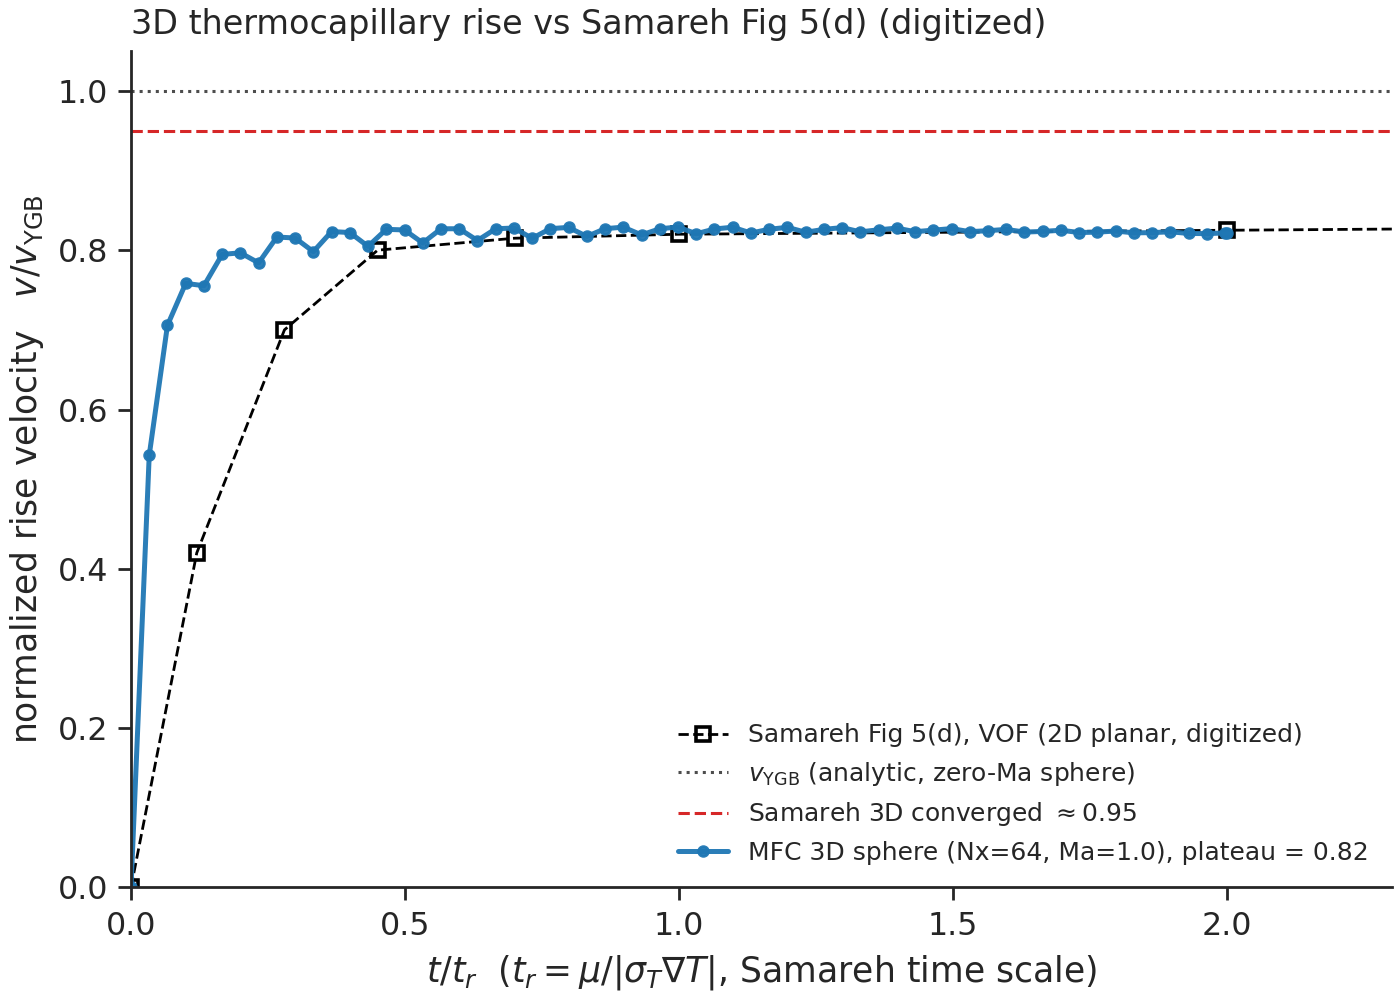
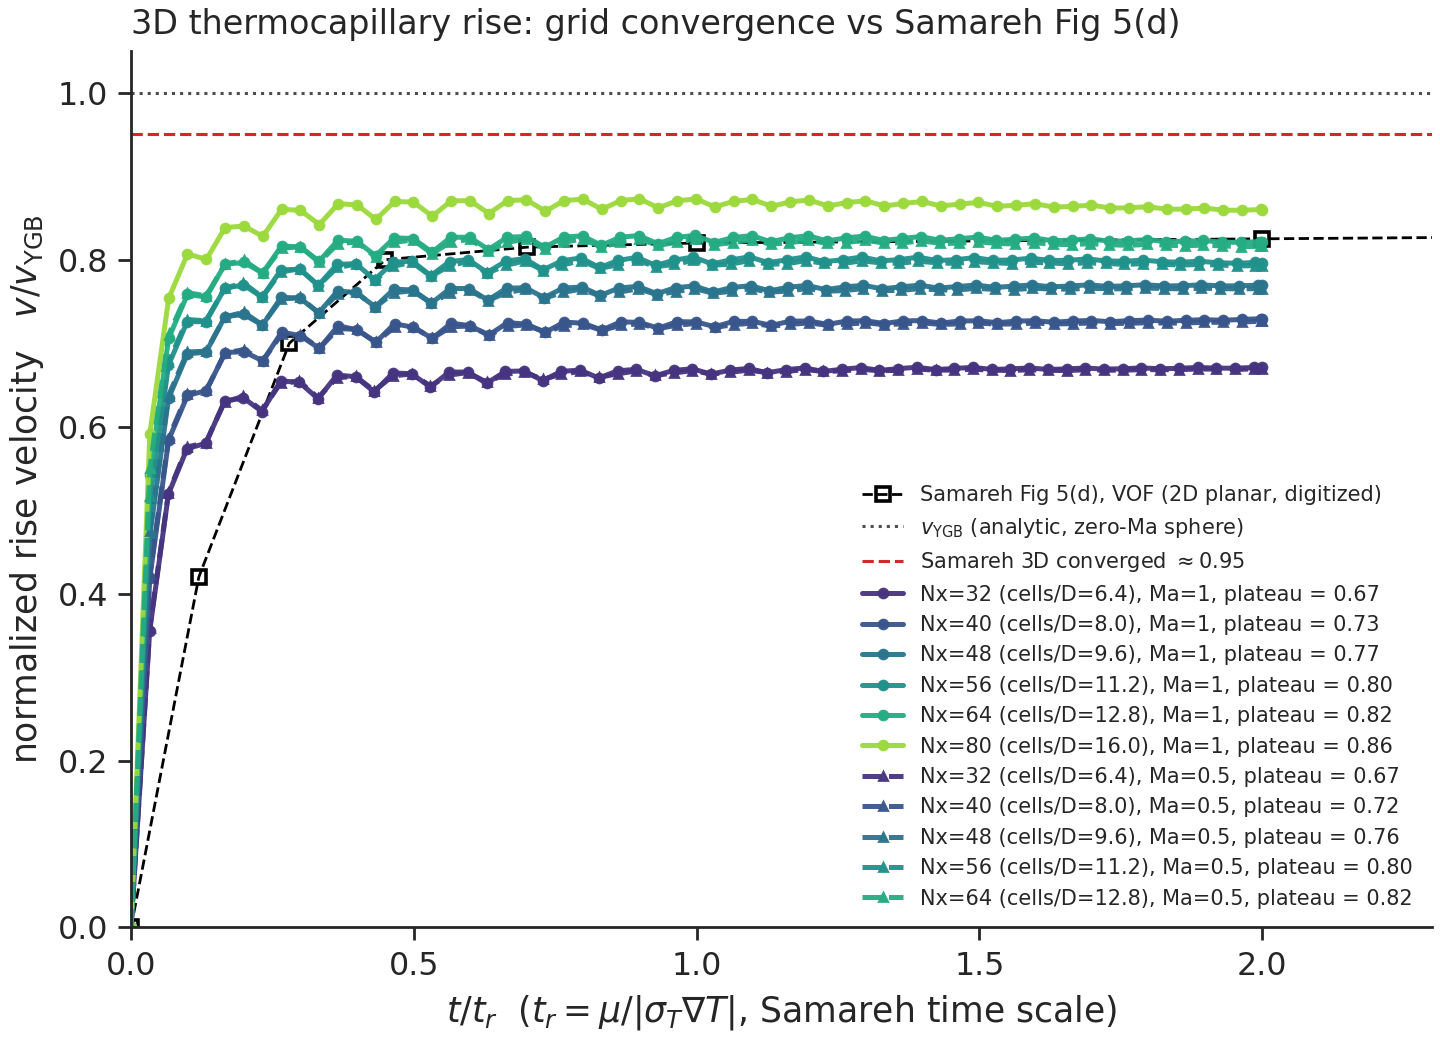
3D_thermocapillary_migration: fig5 overlay as grid+Ma convergence family
Extend plot_fig5.py from a single MFC curve into a grid-convergence overlay:
auto-discover every completed Ma=1.0 and Ma=0.5 runs/grid_ma/nx*/ma* leaf (plus
the fig6_anchor) and draw them coarse->fine vs Samareh Fig 5(d). Add plot_fig5_ma.py
companion (Ma ladder at Nx=32) and its fig5_3d_ma_overlay.png. Plateau climbs
0.669->0.864 across Nx=32..80 toward Samareh's ~0.95; Ma=0.5 tracks Ma=1.0
(Ma-independence). Unstable runs (max|v/v_YGB|>1.3) flagged, not dropped.

diff --git a/examples/3D_thermocapillary_migration/plot_fig5.py b/examples/3D_thermocapillary_migration/plot_fig5.py
@@ -1,20 +1,23 @@
 #!/usr/bin/env python3
-"""Overlay the 3D thermocapillary rise on Samareh's digitized Fig 5(d) VOF curve.
+"""Overlay the 3D thermocapillary grid-convergence family on Samareh's digitized Fig 5(d) VOF curve.
 
 Reuses the 2D example's digitized Samareh data (SAMAREH_VOF) AND its exact curve machinery
-(color_weighted_vy + v_ygb_ratio + PLATE_STYLE) so the 3D run lands on the same v/v_YGB-vs-t/t_r
-axes as the 2D validation -- the only difference is the run dir fed in. color_weighted_vy is
-dimension-agnostic (reshapes to (nz, ny, nx); vy is the y-momentum index 3 in both 2D and 3D), so
-the 3D restart data plots through the identical path.
+(color_weighted_vy + v_ygb_ratio + PLATE_STYLE) so every 3D run lands on the same v/v_YGB-vs-t/t_r
+axes as the 2D validation. color_weighted_vy is dimension-agnostic (reshapes to (nz, ny, nx); vy is
+the y-momentum index 3 in both 2D and 3D), so the 3D restart data plots through the identical path.
 
-Note the comparison this draws: SAMAREH_VOF is Samareh's Fig 5(d), the 2D-planar VOF result
-(plateau ~0.83). The 3D run here is at Ma=1.0 (finite), NOT the Ma=0 limit, so it sits near the
-same ~0.82 -- a finite-Ma coincidence with the 2D number, not a zero-Ma 3D validation (that target
-is ~0.95, reached only as Ma->0 + grid converges). The dotted line is the analytic YGB limit (1.0).
+This overlays the grid-convergence family at one or more fixed Marangoni numbers (default Ma=1.0 and
+Ma=0.5, both stable). Within each Ma family every completed runs/grid_ma/nx<NNN>/ma<tok> leaf is drawn
+coarse->fine (color = Nx); the Ma families are distinguished by marker+linestyle. The runs/fig6_anchor/
+nx064 is the (Nx=64, Ma=1.0) reference. As dx->0 the plateau climbs toward Samareh's converged ~0.95.
+Numerically unstable runs (max|v/v_YGB|>1.3) are drawn faded+dashed and flagged, not silently dropped.
+Skips not-yet-complete leaves, so it can be re-run while a sweep is still in flight.
 
-Usage:  python3 plot_fig5.py [run_dir]      (default: runs/fig6_anchor/nx064)
+Usage:  python3 plot_fig5.py            # overlay the Ma=1.0 and Ma=0.5 grid families
+        python3 plot_fig5.py <run_dir>  # single-run mode (one curve, as before)
 """
 
+import glob
 import os
 import sys
 
@@ -29,37 +32,89 @@ HERE = os.path.dirname(os.path.abspath(__file__))
 TWO_D = os.path.abspath(os.path.join(HERE, "..", "2D_thermocapillary_migration"))
 sys.path.insert(0, TWO_D)
 from plot import PLATE_STYLE, SAMAREH_VOF, color_weighted_vy, v_ygb_ratio  # noqa: E402
+from plot_grid_ma import is_complete  # noqa: E402  -- shared completeness gate (>=20 snaps OR [100%])
 
 FIGS = os.path.join(HERE, "figures")
-run_dir = sys.argv[1] if len(sys.argv) > 1 else os.path.join(HERE, "runs", "fig6_anchor", "nx064")
+SWEEP = os.path.join(HERE, "runs", "grid_ma")
+ANCHOR = os.path.join(HERE, "runs", "fig6_anchor", "nx064")
+
+# (dir-token, Ma value, linestyle, marker) per grid-convergence family. Tokens match sweep_grid_ma fmt.
+MA_FAMILIES = [("1", 1.0, "-", "o"), ("0p5", 0.5, "--", "^")]
+
+
+def curve_of(run_dir):
+    """(x=t/t_r, y=v/v_YGB, plateau, unstable) for a run, or None if no data."""
+    out = color_weighted_vy(run_dir)
+    if out is None or len(out[0]) < 5:
+        return None
+    x, y = v_ygb_ratio(out)
+    unstable = float(np.max(np.abs(y))) > 1.3
+    win = y[(x >= 1.0) & (x <= 2.0)]
+    plateau = float(np.median(win)) if win.size else float(y[-1])
+    return x, y, plateau, unstable
+
+
+def discover(token):
+    """Completed grid points (Nx, run_dir) for one Ma family, coarse->fine."""
+    runs = {}
+    for d in glob.glob(os.path.join(SWEEP, "nx*", f"ma{token}")):
+        nx_tok = os.path.basename(os.path.dirname(d))[2:]
+        if nx_tok.isdigit() and is_complete(d):
+            runs[int(nx_tok)] = d
+    if token == "1" and 64 not in runs and is_complete(ANCHOR):
+        runs[64] = ANCHOR
+    return sorted(runs.items())
 
 
 def main():
-    out = color_weighted_vy(run_dir)
-    if out is None:
-        sys.exit(f"no restart data in {run_dir} -- run the 3D case first")
-    x, y = v_ygb_ratio(out)
-    win = y[(x >= 1.0) & (x <= 2.0)]
-    plateau = float(np.median(win)) if win.size else float(y[-1])
+    single = len(sys.argv) > 1
+    if single:
+        families = [("", None, "-", "o", [(None, sys.argv[1])])]
+    else:
+        families = [(tok, ma, ls, mk, discover(tok)) for tok, ma, ls, mk in MA_FAMILIES]
+    all_nx = [nx for *_, pts in families for nx, _ in pts if nx is not None]
+    if not all_nx and not single:
+        sys.exit(f"no completed grid runs under {SWEEP} (run the sweep first)")
+    lo, hi = (min(all_nx), max(all_nx)) if all_nx else (0, 1)
 
     os.makedirs(FIGS, exist_ok=True)
+    cmap = plt.get_cmap("viridis")
+    printed = []
     with plt.rc_context(PLATE_STYLE):
-        fig, ax = plt.subplots(figsize=(7.0, 5.0), constrained_layout=True)
+        fig, ax = plt.subplots(figsize=(7.2, 5.2), constrained_layout=True)
         ax.plot(SAMAREH_VOF[:, 0], SAMAREH_VOF[:, 1], "s--", color="0.0", ms=5.0, mfc="none", mew=1.3, lw=1.0, label=r"Samareh Fig 5(d), VOF (2D planar, digitized)")
         ax.axhline(1.0, color="0.3", lw=1.1, ls=":", zorder=1, label=r"$v_{\mathrm{YGB}}$ (analytic, zero-Ma sphere)")
         ax.axhline(0.95, color="#d62728", lw=1.1, ls="--", zorder=1, label=r"Samareh 3D converged $\approx 0.95$")
-        ax.plot(x, y, "-o", color="#1f77b4", ms=3.5, lw=1.8, alpha=0.95, solid_capstyle="round", label=rf"MFC 3D sphere (Nx=64, Ma=1.0), plateau = {plateau:.2f}")
-        ax.set_xlim(0.0, max(2.3, float(x.max()) + 0.2))
+
+        for tok, ma, ls, mk, points in families:
+            for nx, d in points:
+                c = curve_of(d)
+                if c is None:
+                    print(f"  skip {d} (no data)")
+                    continue
+                x, y, plateau, unstable = c
+                frac = (nx - lo) / (hi - lo) if (nx is not None and hi > lo) else 0.85
+                color = cmap(0.15 + 0.7 * frac)
+                tag = f"Nx={nx} (cells/D={nx / 5:.1f})" if nx is not None else "MFC 3D"
+                tag += f", Ma={ma:g}" if ma is not None else ""
+                if unstable:
+                    ax.plot(x, np.clip(y, -0.05, 1.1), ls, color=color, lw=1.0, alpha=0.4, label=f"{tag}  (unstable)")
+                else:
+                    ax.plot(x, y, ls, marker=mk, color=color, ms=3.2, lw=1.8, alpha=0.95, solid_capstyle="round", label=f"{tag}, plateau = {plateau:.2f}")
+                printed.append((ma, nx, plateau, unstable))
+
+        ax.set_xlim(0.0, 2.3)
         ax.set_ylim(0.0, 1.05)
         ax.set_xlabel(r"$t / t_r$  ($t_r = \mu / |\sigma_T \nabla T|$, Samareh time scale)")
         ax.set_ylabel(r"normalized rise velocity   $v / v_{\mathrm{YGB}}$")
-        ax.set_title(r"3D thermocapillary rise vs Samareh Fig 5(d) (digitized)", fontsize=12, loc="left")
-        ax.legend(loc="lower right", fontsize=9, frameon=False)
+        ax.set_title(r"3D thermocapillary rise: grid convergence vs Samareh Fig 5(d)", fontsize=12, loc="left")
+        ax.legend(loc="lower right", fontsize=7.5, frameon=False, ncol=1)
         dst = os.path.join(FIGS, "fig5_3d_overlay.png")
         fig.savefig(dst, dpi=200)
         plt.close(fig)
-        print(f"  wrote {dst}")
-    print(f"  MFC 3D plateau v/v_YGB = {plateau:.3f}  (Samareh Fig 5(d) VOF ~ 0.83; 3D converged ~ 0.95)")
+        print(f"  wrote {dst}  ({len(printed)} curve(s))")
+    for ma, nx, pl, unstable in sorted(printed, key=lambda t: (t[0] is None, -(t[0] or 0), t[1] or 0)):
+        print(f"    Ma={ma}  Nx={nx}  plateau = {pl:.3f}  {'UNSTABLE' if unstable else ''}")
 
 
 if __name__ == "__main__":

diff --git a/examples/3D_thermocapillary_migration/plot_fig5_ma.py b/examples/3D_thermocapillary_migration/plot_fig5_ma.py
@@ -1,0 +1,108 @@
+#!/usr/bin/env python3
+"""Overlay the 3D thermocapillary Marangoni-number series (fixed grid) on Samareh's Fig 5(d) axes.
+
+Companion to plot_fig5.py (which overlays the GRID family at fixed Ma=1.0). This holds the grid fixed
+at the stable Nx=32 and sweeps Ma downward -- smaller Ma = stronger conduction = T held closer to the
+imposed gradient = Samareh's invariant-T limit (target plateau ~0.95). Reuses the 2D example's curve
+machinery (color_weighted_vy + v_ygb_ratio + PLATE_STYLE) so every run lands on the same
+v/v_YGB-vs-t/t_r axes as the validation overlay.
+
+Discovers runs/grid_ma/nx<NX>/ma<tok>/ for the chosen NX (default 32). Numerically unstable runs
+(max|v/v_YGB| > 1.3 -- the conduction/interface coupling blows up as Ma drops on under-resolved grids)
+are drawn faded + dashed and flagged "(unstable)", NOT silently dropped, so the fragility is visible.
+
+Usage:  python3 plot_fig5_ma.py [NX]     (default NX=32)
+"""
+
+import glob
+import os
+import sys
+
+import matplotlib
+
+matplotlib.use("Agg")
+import matplotlib.pyplot as plt
+import numpy as np
+
+HERE = os.path.dirname(os.path.abspath(__file__))
+TWO_D = os.path.abspath(os.path.join(HERE, "..", "2D_thermocapillary_migration"))
+sys.path.insert(0, TWO_D)
+from plot import PLATE_STYLE, SAMAREH_VOF, color_weighted_vy, v_ygb_ratio  # noqa: E402
+from plot_grid_ma import is_complete  # noqa: E402
+
+FIGS = os.path.join(HERE, "figures")
+SWEEP = os.path.join(HERE, "runs", "grid_ma")
+NX = int(sys.argv[1]) if len(sys.argv) > 1 else 32
+
+
+def curve_of(run_dir):
+    """(x=t/t_r, y=v/v_YGB, plateau, unstable) or None if no data."""
+    out = color_weighted_vy(run_dir)
+    if out is None or len(out[0]) < 5:
+        return None
+    x, y = v_ygb_ratio(out)
+    unstable = float(np.max(np.abs(y))) > 1.3
+    win = y[(x >= 1.0) & (x <= 2.0)]
+    plateau = float(np.median(win)) if win.size else float(y[-1])
+    return x, y, plateau, unstable
+
+
+def discover():
+    """Completed Ma points at the chosen NX: list of (Ma, run_dir), high Ma -> low Ma."""
+    runs = []
+    for d in glob.glob(os.path.join(SWEEP, f"nx{NX:03d}", "ma*")):
+        if is_complete(d):
+            ma = float(os.path.basename(d)[2:].replace("p", "."))
+            runs.append((ma, d))
+    return sorted(runs, reverse=True)
+
+
+def main():
+    points = discover()
+    if not points:
+        sys.exit(f"no completed runs under {SWEEP}/nx{NX:03d}/ma* yet")
+
+    os.makedirs(FIGS, exist_ok=True)
+    cmap = plt.get_cmap("plasma")
+    mas = [ma for ma, _ in points]
+    # color by log(Ma): bright/yellow = low Ma (strong conduction), dark/purple = high Ma
+    lg = np.log10(mas)
+    lo, hi = min(lg), max(lg)
+    with plt.rc_context(PLATE_STYLE):
+        fig, ax = plt.subplots(figsize=(7.0, 5.0), constrained_layout=True)
+        ax.plot(SAMAREH_VOF[:, 0], SAMAREH_VOF[:, 1], "s--", color="0.0", ms=5.0, mfc="none", mew=1.3, lw=1.0, label=r"Samareh Fig 5(d), VOF (2D planar, digitized)")
+        ax.axhline(1.0, color="0.3", lw=1.1, ls=":", zorder=1, label=r"$v_{\mathrm{YGB}}$ (analytic, zero-Ma sphere)")
+        ax.axhline(0.95, color="#d62728", lw=1.1, ls="--", zorder=1, label=r"Samareh 3D converged $\approx 0.95$")
+
+        printed = []
+        for ma, d in points:
+            c = curve_of(d)
+            if c is None:
+                print(f"  skip {d} (no data)")
+                continue
+            x, y, plateau, unstable = c
+            frac = (np.log10(ma) - lo) / (hi - lo) if hi > lo else 0.5
+            color = cmap(0.1 + 0.8 * (1.0 - frac))  # low Ma -> bright
+            if unstable:
+                ax.plot(x, np.clip(y, -0.05, 1.1), "--", color=color, lw=1.1, alpha=0.45, label=rf"MFC Ma={ma:g}  (unstable, $\max|v/v_{{YGB}}|>1.3$)")
+            else:
+                ax.plot(x, y, "-o", color=color, ms=3.0, lw=1.9, alpha=0.95, solid_capstyle="round", label=rf"MFC Ma={ma:g}, plateau = {plateau:.2f}")
+            printed.append((ma, plateau, unstable))
+
+        ax.set_xlim(0.0, 2.3)
+        ax.set_ylim(0.0, 1.05)
+        ax.set_xlabel(r"$t / t_r$  ($t_r = \mu / |\sigma_T \nabla T|$, Samareh time scale)")
+        ax.set_ylabel(r"normalized rise velocity   $v / v_{\mathrm{YGB}}$")
+        ax.set_title(rf"3D thermocapillary rise: Marangoni-number sweep @ Nx={NX}", fontsize=12, loc="left")
+        ax.legend(loc="lower right", fontsize=8, frameon=False)
+        dst = os.path.join(FIGS, "fig5_3d_ma_overlay.png")
+        fig.savefig(dst, dpi=200)
+        plt.close(fig)
+        print(f"  wrote {dst}  ({len(printed)} curve(s))")
+    print(f"\n  {'Ma':>7} {'plateau':>8}  note")
+    for ma, pl, unstable in sorted(printed, reverse=True):
+        print(f"  {ma:>7g} {pl:>8.3f}  {'UNSTABLE' if unstable else ''}")
+
+
+if __name__ == "__main__":
+    main()
